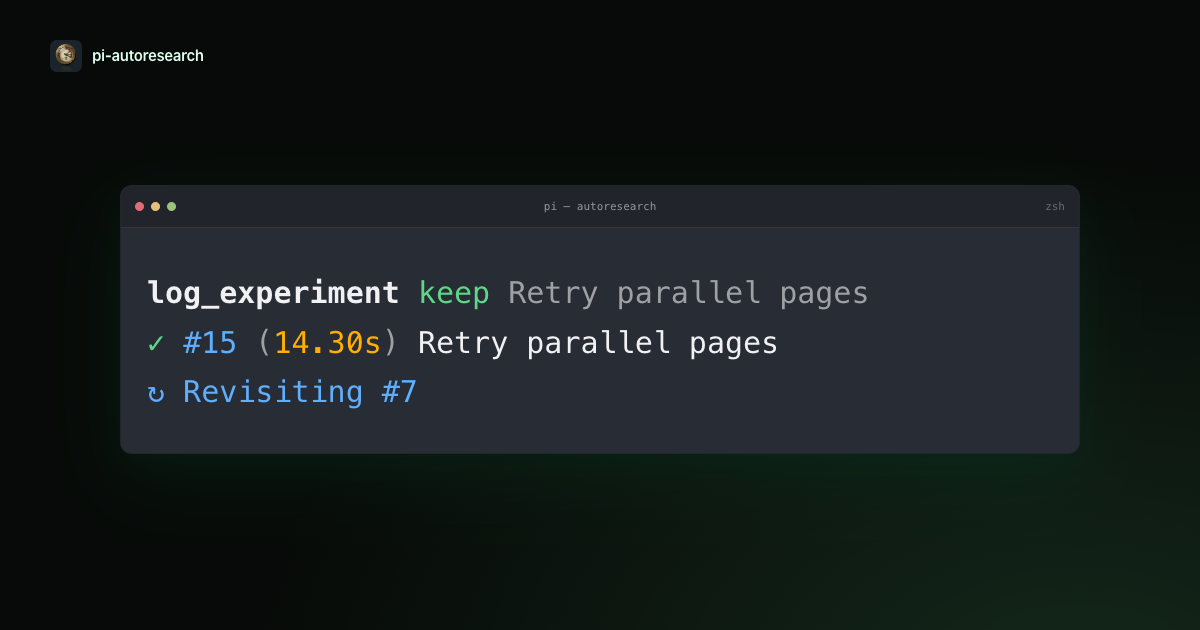
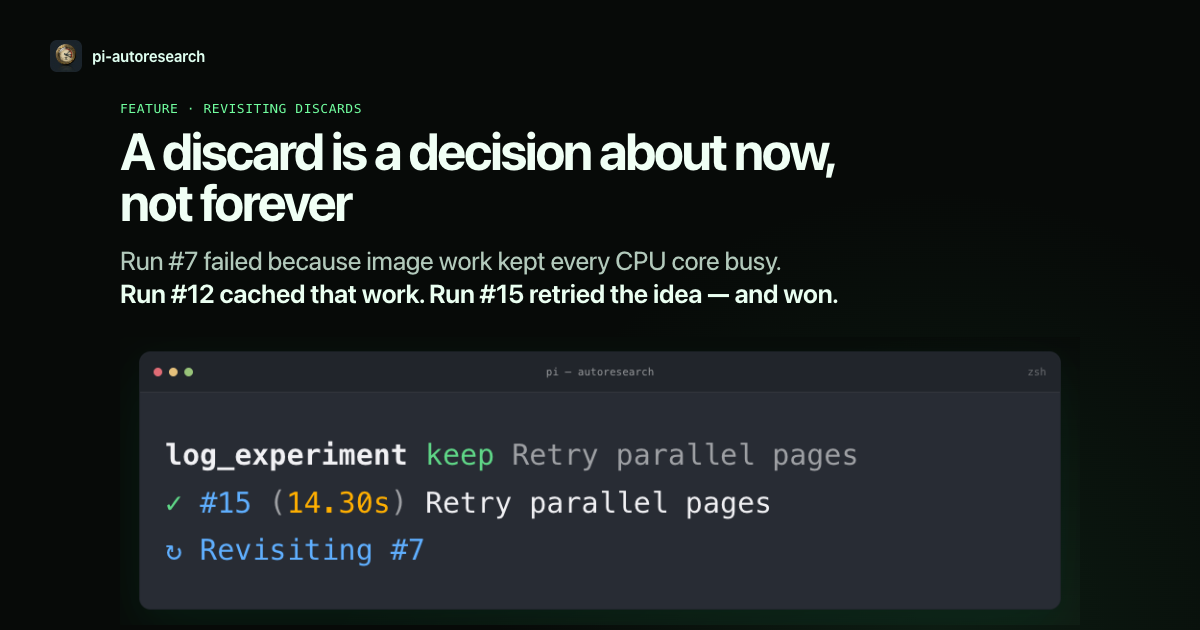
docs: clarify the social preview story
Add large narrative copy explaining why run 7 failed, what run 12 changed, and why run 15 succeeded. Update the image alt text and provenance to match.

diff --git a/site/ASSETS.md b/site/ASSETS.md
@@ -2,7 +2,7 @@
 
 - `og-image.webp` is project-original artwork created for the pi-autoresearch landing page. It contains no third-party logo.
 - `social-preview-dark.png` is captured from the website's real hero at 2× resolution and downsampled to 1200×630. It uses the production logo and the actual Asciinema-rendered autoresearch UI. The abbreviated commit identifiers and benchmark values are illustrative demo data, not identifiers from a private repository.
-- `social-preview-revisiting-discards.png` is a 1200×630 render of the final `revisit-mobile.cast` result inside the website's terminal chrome. The website-build scenario, run numbers, commit identifiers, and timings are illustrative demo data.
+- `social-preview-revisiting-discards.png` is a 1200×630 composition of the post heading and subtitle with the final `revisit-mobile.cast` result inside the website's terminal chrome. The website-build scenario, run numbers, commit identifiers, and timings are illustrative demo data.
 - `result-share-card.png` is a project-original visualization of the publicly reported Polaris result in [Shopify Engineering's Autoresearch case study](https://shopify.engineering/autoresearch).
 
 Original visual elements are distributed under this repository's MIT license. Shopify and Polaris are referenced descriptively; their names and marks remain the property of their respective owners.
